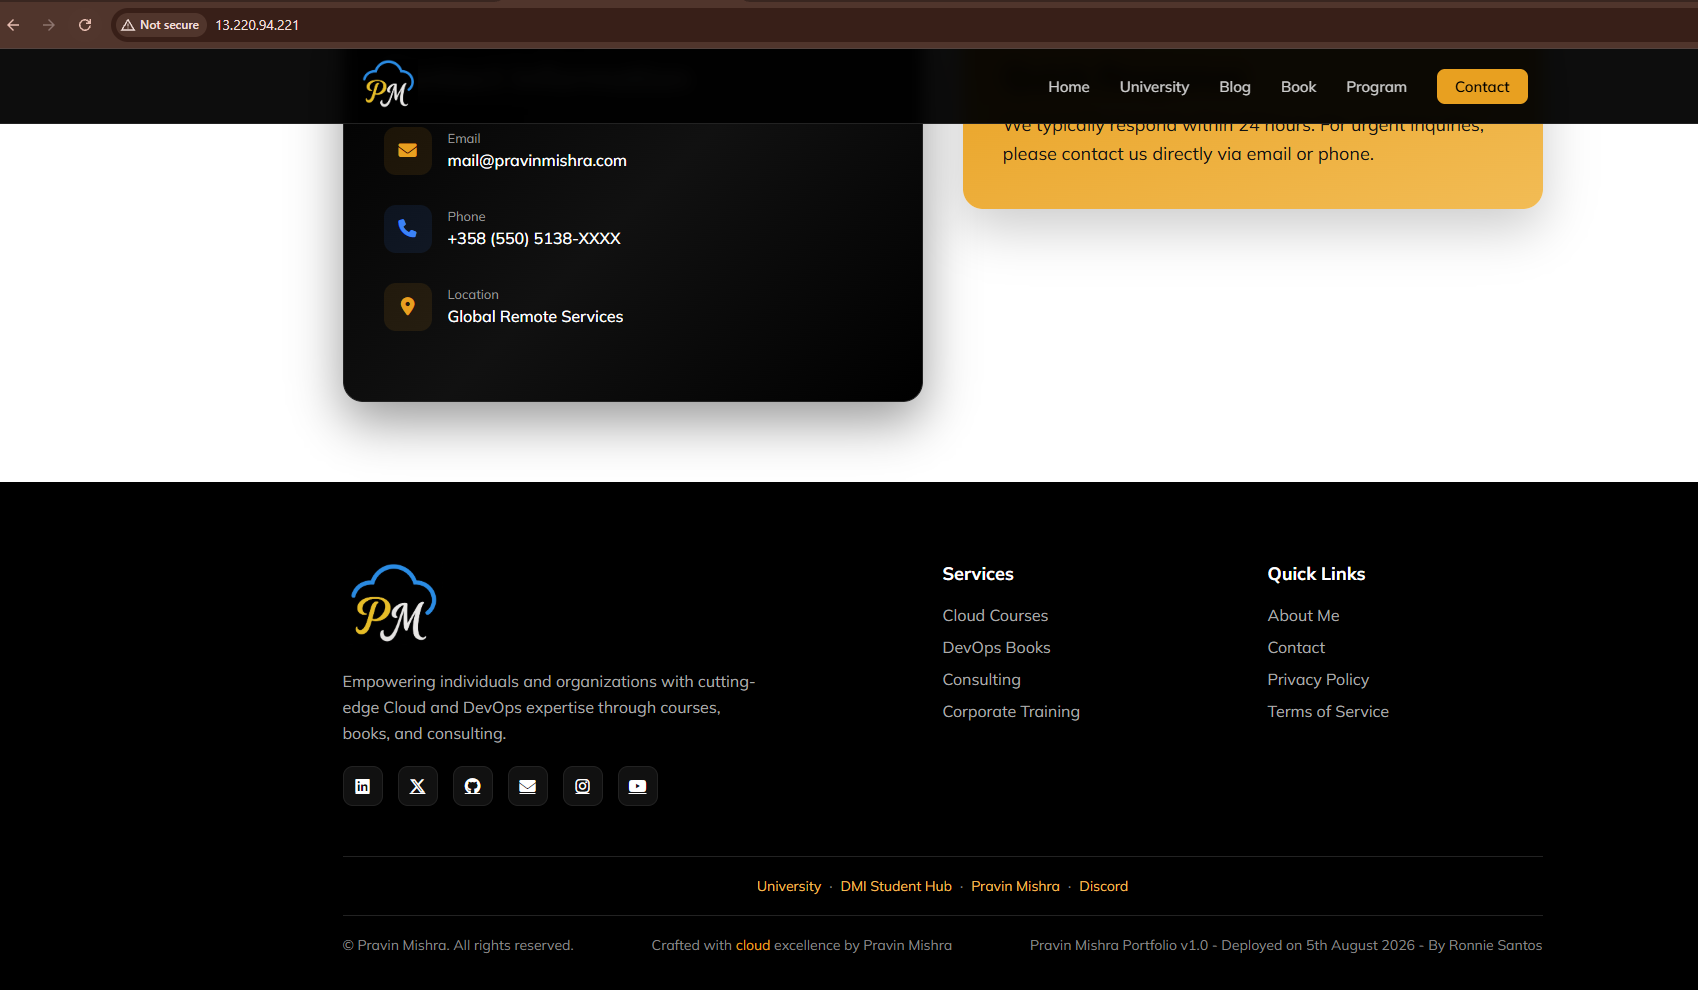
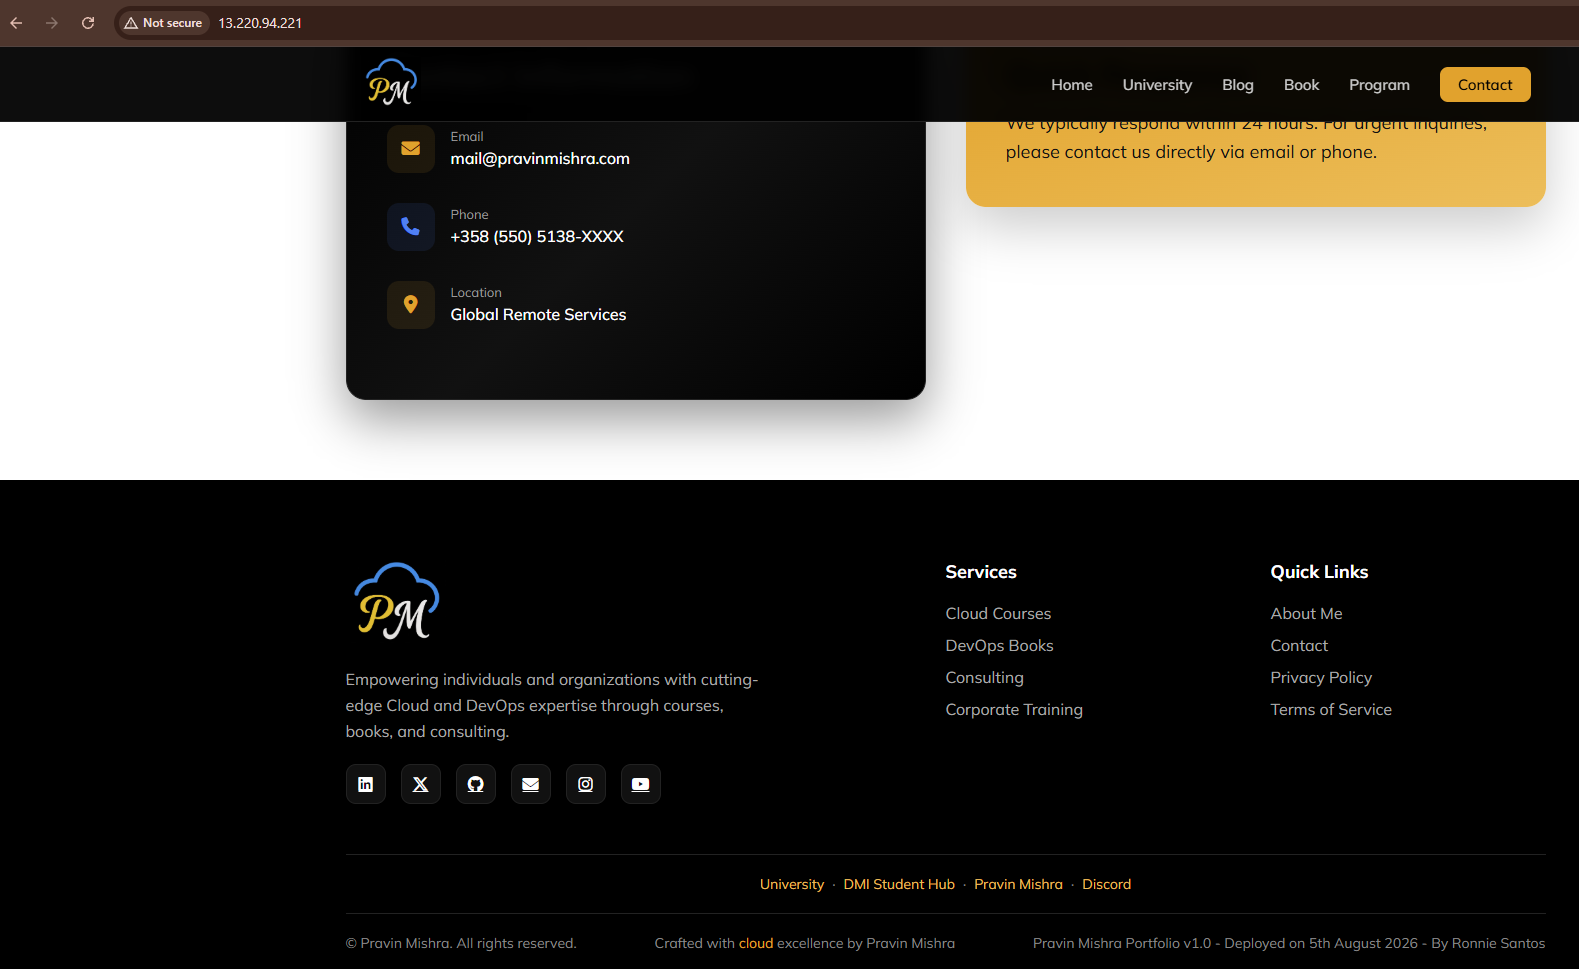
week05-A3-pending-2-080526

diff --git a/week-05-devops-lifecycle/assignment-03-run-a-5-day-mini-sprint-in-jira-and-ship-an-increment.md b/week-05-devops-lifecycle/assignment-03-run-a-5-day-mini-sprint-in-jira-and-ship-an-increment.md
@@ -58,7 +58,7 @@ Add the required footer text (`Pravin Mishra Portfolio v1.0 — Deployed on <DD 
 
 #### Screenshot 6 — Jira Story comment showing the Day 1 Daily Scrum update
 
-Add your screenshot here.
+![ss6](./screenshots/W5-SS-A3/W5-A3-SS-6.png).
 
 ---
 
@@ -72,25 +72,25 @@ Update the footer so the deployment date is generated automatically (or updated 
 
 #### Screenshot 7 — Code editor showing the footer and date logic or deployment-time template snippet
 
-Add your screenshot here.
+![ss7](./screenshots/W5-SS-A3/W5-A3-SS-7.png).
 
 ---
 
 #### Screenshot 8 — EC2 browser view showing the updated footer with the current date
 
-Add your screenshot here.
+![ss8](./screenshots/W5-SS-A3/W5-A3-SS-8.png).
 
 ---
 
 #### Screenshot 9 — README snippet documenting the footer and date behavior
 
-Add your screenshot here.
+![ss9](./screenshots/W5-SS-A3/W5-A3-SS-9.png).
 
 ---
 
 #### Screenshot 10 — Jira Story comment showing the Day 2 Daily Scrum update
 
-Add your screenshot here.
+![ss10](./screenshots/W5-SS-A3/W5-A3-SS-10.png).
 
 ---
 
